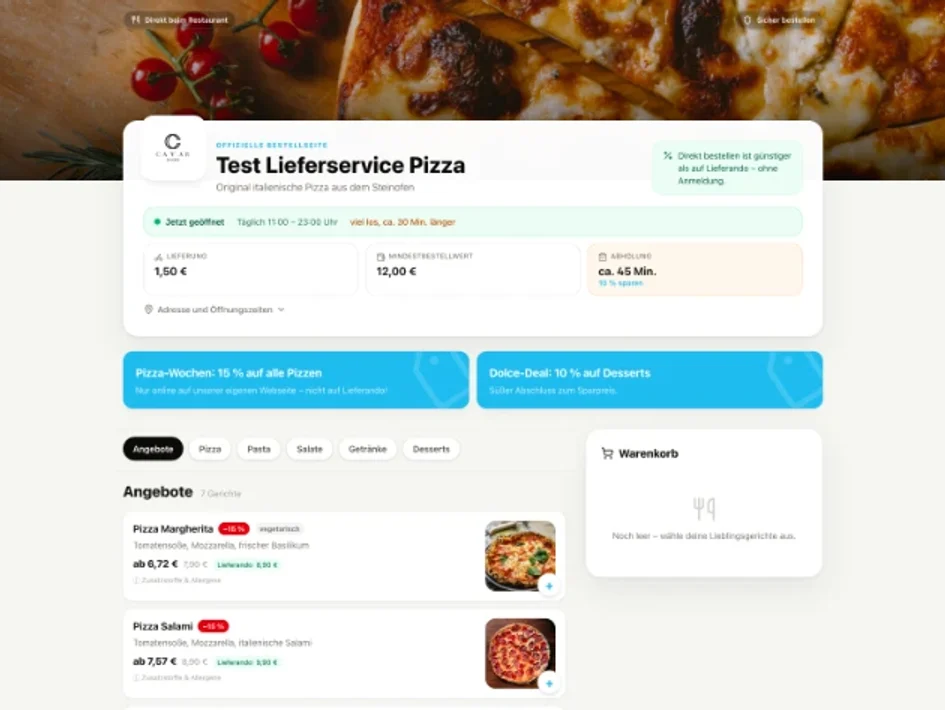
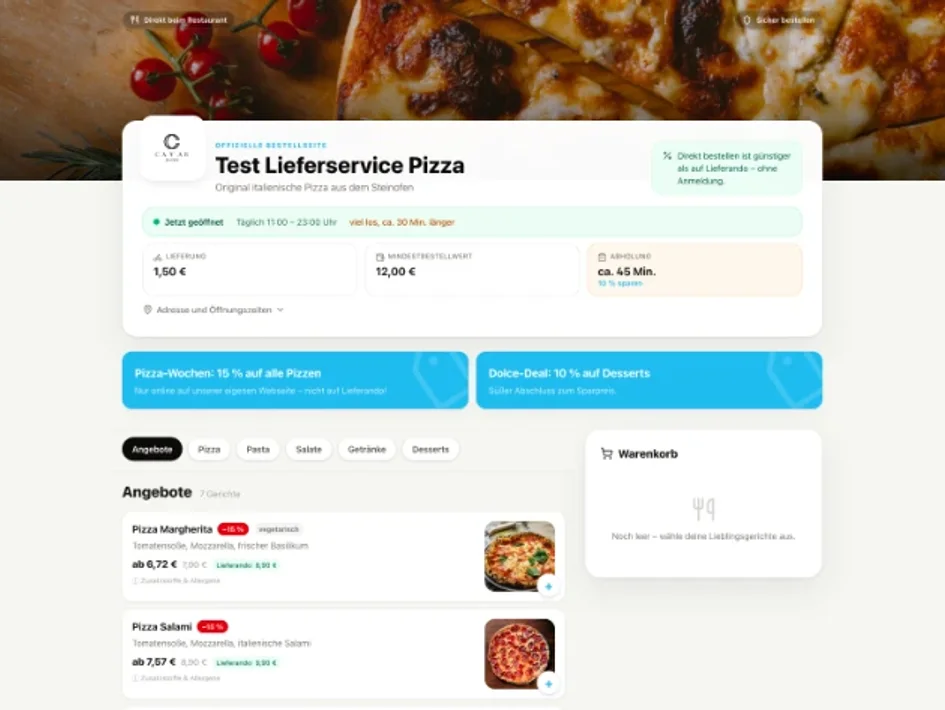
KI-Seite: Adloc-Mockup und Teykto-Bestellseite als echte Bilder
Ersetzt den Adloc-Platzhalter durch das Laptop-Mockup und das weiche
Teykto-Bild durch den Screenshot der Bestellseite, beide vom Inhaber
geliefert.

Claude-Session: https://claude.ai/code/session_01RdZ91zX717GxELCA6hukTo

diff --git a/web/app/leistungen/ki-automatisierung/page.tsx b/web/app/leistungen/ki-automatisierung/page.tsx
@@ -202,7 +202,8 @@ const eigeneProjekte: DetailEintrag[] = [
       "Kontaktdaten für Vertrieb, Akquise und Kampagnen gebündelt an einem Ort",
       "Drei transparente Monatspakete, Einstieg in wenigen Schritten",
     ],
-    variant: "ic-6",
+    bild: "/bilder/ki-projekt-adloc.webp",
+    bildAlt: "adloc.io auf einem Laptop: Startseite der B2B-Kontaktdatenbank",
     href: "https://adloc.io",
     linkText: "adloc.io ansehen",
     extern: true,

diff --git a/web/docs/KURZBRIEFING.md b/web/docs/KURZBRIEFING.md
@@ -83,11 +83,12 @@ wird umgesetzt, gebaut, mit Screenshot geprüft, committet und gepusht
 
 ## Offene Punkte (Reihenfolge = Priorität)
 
-1. **Vom Inhaber erwartet:** schärfere Desktop-Screenshots von Teykto und
-   Adloc (ersetzen `ki-projekt-teykto.webp` und den Adloc-BrowserMock in
-   `app/leistungen/ki-automatisierung/page.tsx`, `eigeneProjekte`);
-   Rückmeldung zur neuen Startseite (Hero, Ohne/Mit-Block, Passt-Block)
-   und zu den Leistungs-Heros.
+1. **Vom Inhaber erwartet:** Rückmeldung zur neuen Startseite (Hero,
+   Ohne/Mit-Block, Beispielbilder, Passt-Block), Entscheidung zum
+   Koblenz-Bild im Hero (Empfehlung: nein, Alternative Porträt). Teykto-
+   und Adloc-Bilder sind da (16.10.): Adloc = Laptop-Mockup
+   `ki-projekt-adloc.webp`, Teykto = Bestellseite `ki-projekt-teykto.webp`
+   (Quelle nur 630 px breit, ein breiterer Screenshot wäre schärfer).
 2. Noch nicht auf die Positionierung gezogen: Fließtexte **innerhalb** der
    acht Leistungsseiten (Abschnitte unter dem Hero), Projekte-Übersicht,
    Kontakt-Hero, Blog-Teaser. Nächster Schritt, wenn der Inhaber die

diff --git a/web/docs/STATUS.md b/web/docs/STATUS.md
@@ -15,6 +15,15 @@ verändert, auch kein Publish. Lesende API-Zugriffe sind davon nicht betroffen.
 
 ## Was zuletzt passiert ist
 
+- 16.10.2026: **Teykto- und Adloc-Bilder vom Inhaber.** Vier Dateien:
+  Adloc-Gesamtseite (212 px breit, unbrauchbar), Adloc-Laptop-Mockup
+  (2000 px), Teykto-Bestellseite „Test Lieferservice Pizza“ (630 px),
+  Teykto-Landingpage (328 px, unbrauchbar). Adloc-Eintrag auf der KI-Seite
+  zeigt jetzt das Mockup (`ki-projekt-adloc.webp`, 4:3-Ausschnitt um den
+  Laptop) statt des BrowserMocks; Teykto-Bild durch den oberen Teil der
+  Bestellseite ersetzt (gleiche Datei `ki-projekt-teykto.webp`, auch auf
+  der Startseite in der KI-Karte). Hinweis an den Inhaber: Teykto-Quelle
+  ist knapp, ein Desktop-Screenshot mit mindestens 1400 px wäre schärfer.
 - 16.10.2026: **Beispielbilder, Tagesplaner-Bild, längere Passt-Listen.**
   Inhaber nach dem ersten Blick auf die Vorschau: Tagesplaner braucht ein
   Bild (gibt es in Webflow), in den erklärenden Abschnitten fehlen Bilder,
